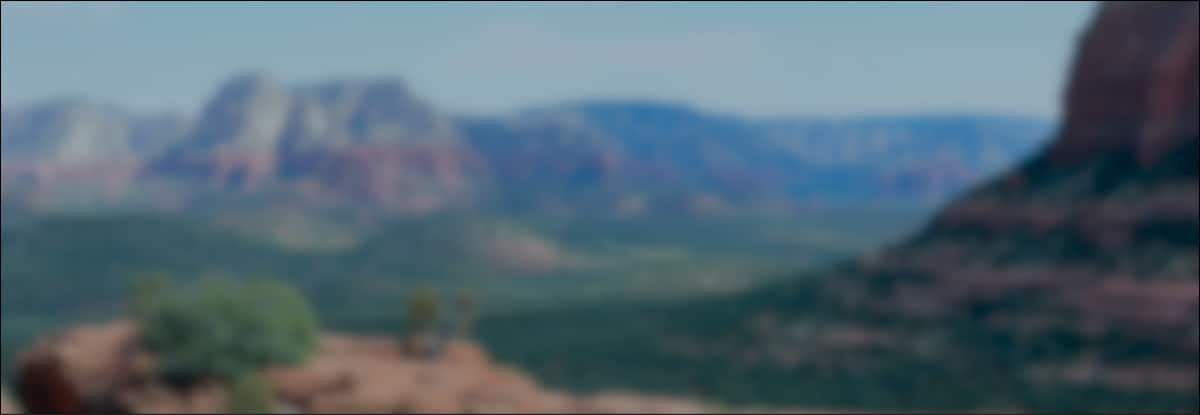
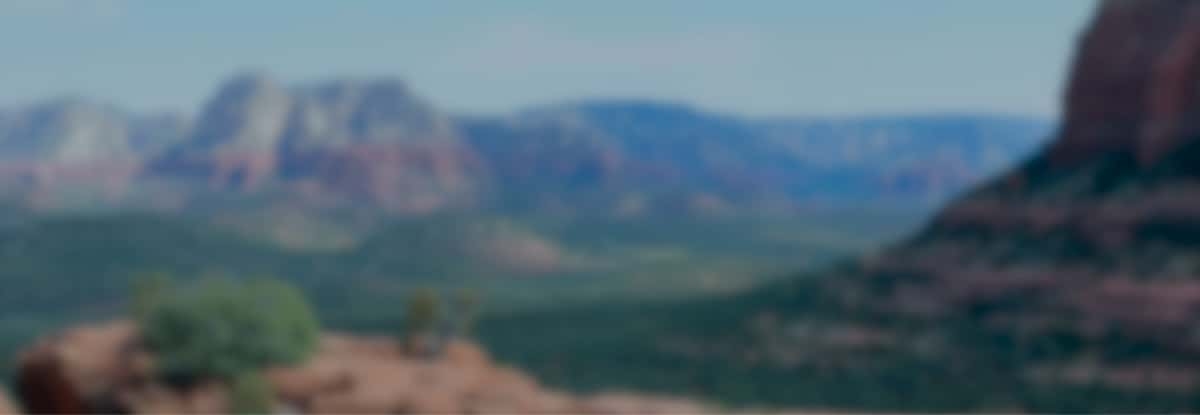
Добавляет изменения ошибок к допуску

diff --git a/styles/styles.css b/styles/styles.css
@@ -140,18 +140,18 @@ button {
 
 .navigation-link-current-main::before {
   position: absolute;
-  bottom: 0;
+  bottom: -2px;
   height: 2px;
-  width: 68px;
+  padding-left: 68px;
   background-color: #756257;
   content: "";
 }
 
 .navigation-link-current-hotels::before {
   position: absolute;
-  bottom: 0;
+  bottom: -2px;
   height: 2px;
-  width: 93px;
+  padding-left: 93px;
   background-color: #756257;
   content: "";
 }
@@ -165,6 +165,7 @@ button {
   background-image: url("../images/search.svg");
   background-repeat: no-repeat;
   background-position: center;
+  left: 5px;
 }
 
 .navigation-link-favorites {
@@ -187,6 +188,7 @@ button {
   align-items: center;
   justify-content: center;
   flex-shrink: 0;
+  min-width: 10px;
 }
 
 .main-container {
@@ -208,6 +210,7 @@ button {
   border-radius: 4px;
   border: none;
   margin-left: 16px;
+  width: 158px;
 }
 
 .header-button:hover {
@@ -230,7 +233,7 @@ button {
 
 .main-logo {
   color: #000;
-  background-color: #c7cafe;
+  background-color: rgb( 104 162 202 / 20%);
   background-image: url("../images/vector.svg"), url("../images/background.jpg");
   background-size: 100% auto, cover;
   background-repeat: no-repeat;
@@ -334,7 +337,6 @@ button {
   position: absolute;
   bottom: 72px;
   height: 2px;
-  width: 60px;
   left: 85px;
   right: 85px;
   background-color: #000;
@@ -346,6 +348,18 @@ button {
   color: #fff;
   text-align: center;
   margin: 0 auto;
+  position: relative;
+}
+
+.advantages-text::before {
+  position: absolute;
+  top: -30px;
+  height: 2px;
+  left: 85px;
+  right: 85px;
+  background-color: #fff;
+  opacity: 0.3;
+  content: "";
 }
 
 .advantages-large {
@@ -376,6 +390,7 @@ button {
   width: 800px;
   height: 100%;
   object-fit: cover;
+  background-color: rgb( 104 162 202 / 20%);
 }
 
 .welcome {
@@ -522,7 +537,7 @@ button {
   flex-direction: column;
   text-align: center;
   color: #fff;
-  background-color: #c7cafe;
+  background-color: rgb( 104 162 202 / 20%);
   background-image: url("../images/subscribe.jpg");
   background-size: cover;
   background-repeat: no-repeat;
@@ -629,8 +644,10 @@ button {
   font-size: 18px;
   font-weight: 700;
   line-height: 24px;
-  width: 119px;
-  padding: 12px;
+  width: 121px;
+  padding-top: 12px;
+  padding-left: 20px;
+  padding-bottom: 12px;
   border: none;
   border-radius: 4px 0 0 4px;
   overflow: hidden;
@@ -670,15 +687,15 @@ button {
   line-height: 40px;
   font-weight: 400;
   color: #000;
-  width: 720px;
+  width: 380px;
   text-align: center;
   text-decoration: none;
-  padding-right: 16px;
+  padding-right: 59px;
   padding-top: 5px;
 }
 
 .academy-link {
-  padding-top: 6px;
+  padding-top: 8px;
 }
 
 .icon {
@@ -711,16 +728,16 @@ button {
 .social-list {
   display: flex;
   flex-wrap: wrap;
-  min-width: 150px;
+  width: 200px;
   margin: 0;
   padding: 0;
-  padding-left: 12px;
+  padding-top: 5px;
   list-style-type: none;
 }
 
 .social-item {
   width: 48px;
-  max-height: 40px;
+  height: 40px;
 }
 
 .page-footer {
@@ -730,13 +747,15 @@ button {
 }
 
 .footer-social-link {
-  display: block;
+  display: flex;
+  flex-wrap: wrap;
   width: 48px;
-  max-height: 40px;
+  height: 40px;
+  justify-content: center;
+  align-items: center;
   background-color: #fff;
-  background-repeat: no-repeat;
-  background-position: center;
   background-size: 22px 17px;
+  text-decoration: none;
 }
 
 .input-group svg {
@@ -746,6 +765,8 @@ button {
 }
 
 .footer-social {
+  width: auto;
+  height: auto;
   fill: #83B3D3;
 }
 
@@ -753,8 +774,14 @@ button {
   fill: #68A2CA;
 }
 
+.footer-social-link:focus {
+  outline: auto;
+  outline-offset: -1px;
+}
+
 .footer-social-link:focus svg {
   fill:#68A2CA;
+  outline: none;
 }
 
 .footer-social:active {
@@ -795,7 +822,7 @@ button {
 }
 
 .main-filter {
-  background-color: #c7cafe;
+  background-color: rgb( 104 162 202 / 20%);
   background-image: url("../images/filtr.jpg");
   background-repeat: no-repeat;
   background-size: cover;
@@ -955,6 +982,7 @@ button {
   margin: 0;
   padding: 0;
   width: 340px;
+  padding-top: 6px;
 }
 
 .hotels-finder-item {
@@ -1111,7 +1139,12 @@ button {
   margin-bottom: 4px;
   object-fit: cover;
   width: 300px;
-  height: 212px;
+  min-height: 212px;
+  background-color: rgb( 104 162 202 / 20%);
+}
+
+.product-card-image-stars {
+  margin-bottom: 8px;
 }
 
 .product-card-content {
@@ -1473,6 +1506,10 @@ button {
   cursor: pointer;
 }
 
+.range-toggle:hover {
+  box-shadow: 0 4px 10px 0 rgb(0 0 0 / 25%);
+}
+
 .range-toggle:focus {
   border: 3px solid #83B3D3;
   outline: none;
@@ -1530,8 +1567,8 @@ button {
 }
 
 .infrastructure-input:focus + .control-mark {
-  border: 3px solid #83B3D3;
-  outline: none;
+  outline: 3px solid #83B3D3;
+  appearance: none;
 }
 
 .control:active .control-mark {
@@ -1581,8 +1618,7 @@ button {
 }
 
 .infrastructure-input:focus + .control-hotel-mark {
-  border: 3px solid #83B3D3;
-  outline: none;
+  outline: 3px solid #83B3D3;
 }
 
 .control-hotel:active .control-hotel-mark {
@@ -1890,9 +1926,24 @@ button {
   display: block;
 }
 
+.button-minus-first {
+  position: relative;
+  left: 10px;
+}
+
+.button-plus-first {
+  position: relative;
+  right: 10px;
+}
+
 .button-minus {
-  width: 21px;
-  background-color: inherit;
+  position: relative;
+  left: 10px;
+}
+
+.button-plus {
+  position: relative;
+  right: 10px;
 }
 
 .button-style {

diff --git a/hotels.html b/hotels.html
@@ -36,7 +36,7 @@
         </a>
       </li>
       <li>
-        <a class="header-button" href="#">Хочу сюда</a>
+        <button class="header-button" type="submit" href="#">Хочу сюда</button>
       </li>
     </ul>
     </nav>
@@ -228,7 +228,7 @@
       </li>
       <li class="product-card">
         <a class="product-card-link" href="#">
-          <img class="product-card-image" src="images/stars.jpg" width="300" height="212" alt="Горный хребет под звездным небом">
+          <img class="product-card-image product-card-image-stars" src="images/stars.jpg" width="300" height="212" alt="Горный хребет под звездным небом">
           <h3 class="product-card-title">GreenTree Inn</h3>
         </a>
         <div class="product-card-content">
@@ -274,7 +274,7 @@
         <p class="subscription-hotels-info">Только полезная информация и никакого спама,<br> честное бойскаутское!</p>
         <form class="subscription-form" action="https://echo.htmlacademy.ru/" method="post">
           <label class="visually-hidden" for="subscription-mail">Email</label>
-          <input class="subscription-input" type="text" id="subscription-mail" name="subscription-mail" placeholder="Ваш e-mail">
+          <input class="subscription-input" type="text" id="subscription-mail" name="subscription-mail" placeholder="Ваш e-mail" required>
           <button class="subscription-button" type="submit">Подписаться</button>
         </form>
     </section>
@@ -304,7 +304,7 @@
         </li>
       </ul>
 
-    <a class="phone" href="tel:+78128121212">+7(812)812-12-12</a>
+    <a class="phone" href="tel:+78128121212">+7 (812) 812-12-12</a>
     <a class="academy-link" href="https://htmlacademy.ru">
       <svg class="academy-logo-footer" aria-hidden="true" role="img" aria-label="Логотип HTML Академии" focusable="false" xmlns="http://www.w3.org/2000/svg" width="115" height="34" fill="none"><path d="M0 13.3v2.6h2.5v-2.6H0ZM11.6 4.9c-1.6 0-2.8.7-3.6 1.7h-.1V.4h-2v15.5h2v-5.3C7.9 8.5 9.2 7 11.2 7c1.8 0 2.9 1.4 2.9 3.2v5.7h2V9.8c.1-3-1.8-5-4.5-5ZM26.6 5.2h-4.8V1.5h-2v3.8h-1.9v2h1.9v6c0 1.7 1 2.7 2.7 2.7h4.1v-2h-3.7c-.7 0-1.1-.4-1.1-1.1V7.2h4.8v-2ZM41.1 5c-1.6 0-2.9.8-3.5 2h-.1a3.7 3.7 0 0 0-3.4-2c-1.4 0-2.5.8-3.1 1.8h-.1V5.2H29v10.6h2v-5.4c0-2 1-3.5 2.6-3.5 1.5 0 2.4 1 2.4 2.6v6.3h2v-5.6c0-2.4 1.4-3.3 2.6-3.3 1.5 0 2.4 1 2.4 2.6v6.3h2V9.3c.1-2.5-1.4-4.3-3.9-4.3ZM47.8 13c0 1.8 1 2.8 2.8 2.8h2v-2h-1.7c-.7 0-1.1-.4-1.1-1.1V.4h-2V13ZM28.9 20a4.9 4.9 0 0 0-3.9-1.7c-3.1 0-5.4 2.3-5.4 5.6s2.3 5.6 5.4 5.6c1.8 0 3-.8 3.8-2h.1v1.7h2V18.6h-2V20Zm-3.6 7.5a3.5 3.5 0 0 1-3.6-3.6c0-2 1.4-3.6 3.6-3.6s3.6 1.6 3.6 3.6c0 1.9-1.4 3.6-3.6 3.6ZM44.2 22.4c-.5-2.4-2.6-4.1-5.4-4.1a5.4 5.4 0 0 0-5.6 5.6c0 3 2.2 5.6 5.6 5.6 2.8 0 4.9-1.8 5.4-4.2h-2.1a3.4 3.4 0 0 1-3.3 2.3 3.5 3.5 0 0 1-3.6-3.6c0-2 1.4-3.6 3.6-3.6 1.6 0 2.8 1 3.3 2.2h2.1v-.2ZM55.1 20a4.9 4.9 0 0 0-3.9-1.7c-3.1 0-5.4 2.3-5.4 5.6s2.3 5.6 5.4 5.6c1.8 0 3-.8 3.8-2h.1v1.7h2V18.6h-2V20Zm-3.6 7.5a3.5 3.5 0 0 1-3.6-3.6c0-2 1.4-3.6 3.6-3.6s3.6 1.6 3.6 3.6c0 1.9-1.5 3.6-3.6 3.6ZM68.7 20.2a5 5 0 0 0-3.9-2c-3.1 0-5.4 2.4-5.4 5.7 0 3.3 2.2 5.6 5.4 5.6 1.7 0 3-.8 3.8-1.8h.1v1.5h2V13.8h-2v6.4Zm-3.6 7.3a3.5 3.5 0 0 1-3.6-3.6c0-2 1.4-3.6 3.6-3.6s3.6 1.6 3.6 3.6c-.1 2-1.5 3.6-3.6 3.6ZM78.3 18.3a5.4 5.4 0 0 0-5.5 5.6c0 3 2.1 5.6 5.5 5.6 2.5 0 4.5-1.3 5.2-3.6h-2.1c-.5 1-1.6 1.6-3 1.6-1.9 0-3.3-1.3-3.4-3h8.8c.2-3.5-2-6.2-5.5-6.2Zm0 1.9c1.7 0 3 1 3.3 2.6h-6.5a3.2 3.2 0 0 1 3.2-2.6ZM98.2 18.3a4 4 0 0 0-3.6 2h-.1c-.6-1.2-1.8-2-3.4-2-1.4 0-2.5.7-3.1 1.8v-1.5h-1.9v10.6h2v-5.4c0-2 1-3.4 2.6-3.5 1.5 0 2.4 1 2.4 2.6v6.3h2v-5.6c0-2.4 1.4-3.3 2.6-3.3 1.5 0 2.4 1 2.4 2.6v6.3h2v-6.5c.1-2.6-1.4-4.4-3.9-4.4ZM109.4 27.4l-3.6-9h-2.2l4.8 11.7c-.3.9-.7 1.2-1.7 1.2h-2.5v2h2.5c1.8 0 2.8-.8 3.5-2.6l4.7-12.2h-2.1l-3.4 8.9Z"/></svg>
       <span class="visually-hidden">HTML Academy</span>

diff --git a/modal.html b/modal.html
@@ -177,7 +177,7 @@
 
           <fieldset class="field-group">
             <label class="modal-lable" for="auth-date-in">Дата Заезда:</label>
-            <input class="auth-form-field" id="auth-date-in" name="auth-date-in" type="text" placeholder="27 апреля 2020" required>
+            <input class="auth-form-field" id="auth-date-in" name="auth-date-in" width="440" height="48" type="text" placeholder="27 апреля 2020" required>
             <span class="warning">Мы не можем отправить вас в прошлое.</span>
           </fieldset>
 
@@ -191,13 +191,13 @@
           <fieldset class="field-group field-group-adult">
             <label class="modal-lable modal-lable-small" for="adults">Взрослые:</label>
             <div class="input-group">
-              <button class="button-minus-first button-modal-style" type="button">
+              <button class="button-minus-first" type="button">
                 <svg class="button-style button-style-minus" aria-hidden="true" focusable="false" xmlns="http://www.w3.org/2000/svg" width="20" height="20" viewBox="0 0 20 20">
                   <path d="M3 9V11H17V9H3Z"/>
                 </svg>
               </button>
               <input class="auth-form-field field" tabindex="-1" id="adults" name="adults" type="number" placeholder="2">
-              <button class="button-plus-first button-modal-style" type="button">
+              <button class="button-plus-first" type="button">
                 <svg class="button-style button-style-plus" xmlns="http://www.w3.org/2000/svg" aria-hidden="true" focusable="false" width="20" height="20">
                   <path d="M17 9H11V3H9V9H3V11H9V17H11V11H17V9Z"/>
                 </svg>
@@ -219,13 +219,13 @@
                 </span>
             </span>
             <div class="input-group input-group-child">
-              <button class="button-minus button-modal-style" type="button">
+              <button class="button-minus" type="button">
               <svg class="button-style button-style-minus-second" aria-hidden="true" focusable="false" xmlns="http://www.w3.org/2000/svg" width="20" height="20" viewBox="0 0 20 20">
                 <path d="M3 9V11H17V9H3Z"/>
               </svg>
               </button>
               <input class="auth-form-field field" tabindex="-1" id="childrens" name="childrens" type="number" placeholder="2">
-              <button class="button-plus button-modal-style" type="button">
+              <button class="button-plus" type="button">
                 <svg class="button-style button-style-plus-second" xmlns="http://www.w3.org/2000/svg" aria-hidden="true" focusable="false" width="20" height="20">
                   <path d="M17 9H11V3H9V9H3V11H9V17H11V11H17V9Z"/>
                 </svg>

diff --git a/index.html b/index.html
@@ -36,7 +36,7 @@
         </a>
         </li>
         <li>
-          <a class="header-button" href="#">Хочу сюда</a>
+          <button class="header-button" type="submit" href="#">Хочу сюда</button>
         </li>
       </ul>
       </nav>
@@ -129,7 +129,7 @@
             <p class="subscription-info">Только полезная информация и никакого спама,<br> честное бойскаутское!</p>
           <form class="subscription-form" action="https://echo.htmlacademy.ru/" method="post">
             <label for="subscription-mail" class="visually-hidden">Email</label>
-            <input class="subscription-input" type="text" id="subscription-mail" name="subscription-mail" placeholder="Ваш e-mail">
+            <input class="subscription-input" type="text" id="subscription-mail" name="subscription-mail" placeholder="Ваш e-mail" required>
             <button class="subscription-button" type="submit">Подписаться</button>
           </form>
         </div>
